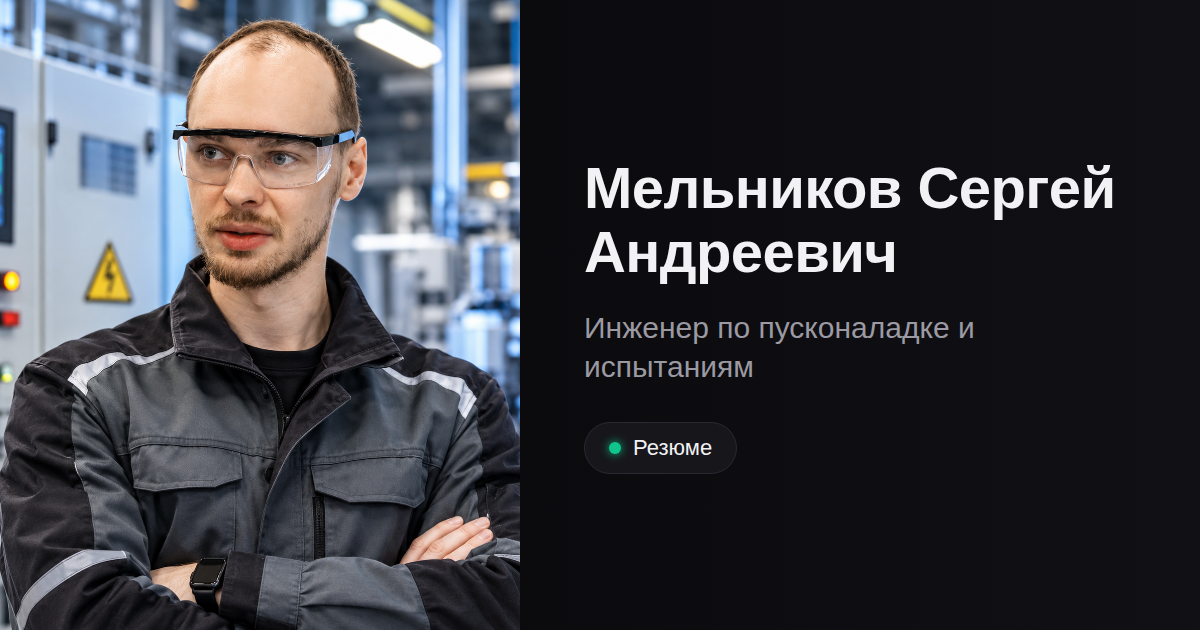
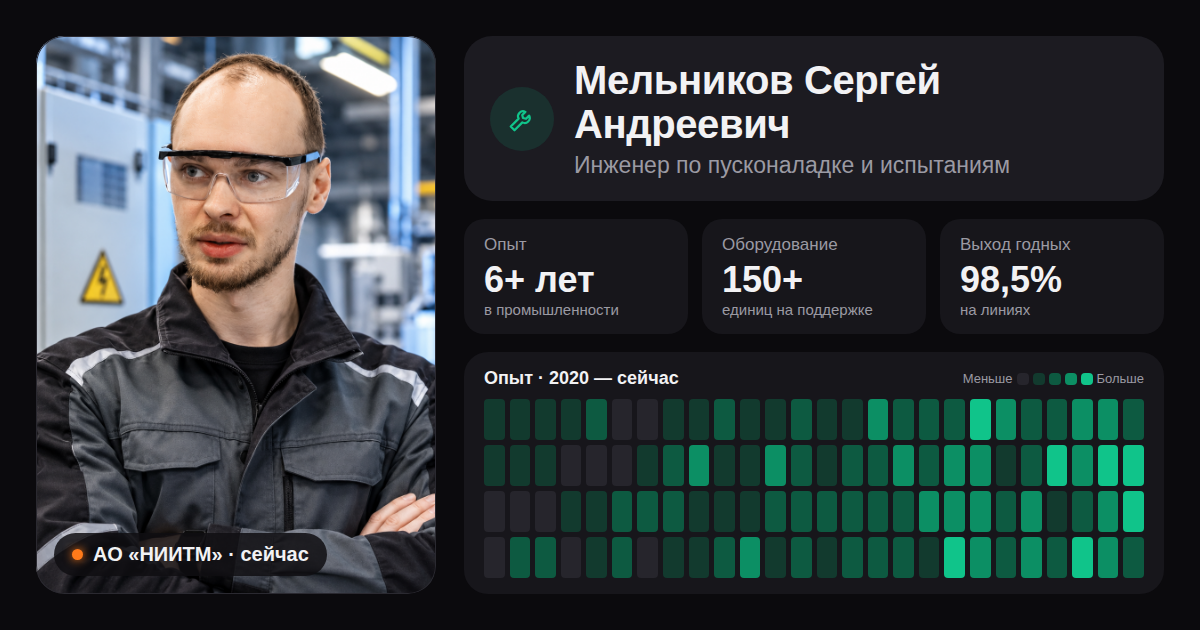
Превью для мессенджеров в стиле сайта

diff --git a/index.html b/index.html
@@ -11,14 +11,14 @@
 <meta property="og:url" content="https://sermel-llm.github.io/resume/">
 <meta property="og:title" content="Мельников Сергей Андреевич">
 <meta property="og:description" content="Инженер по пусконаладке и испытаниям">
-<meta property="og:image" content="https://sermel-llm.github.io/resume/og-image.png">
+<meta property="og:image" content="https://sermel-llm.github.io/resume/og-image.png?v=2">
 <meta property="og:image:width" content="1200">
 <meta property="og:image:height" content="630">
 <meta property="og:image:alt" content="Мельников Сергей Андреевич — инженер по пусконаладке и испытаниям">
 <meta name="twitter:card" content="summary_large_image">
 <meta name="twitter:title" content="Мельников Сергей Андреевич">
 <meta name="twitter:description" content="Инженер по пусконаладке и испытаниям">
-<meta name="twitter:image" content="https://sermel-llm.github.io/resume/og-image.png">
+<meta name="twitter:image" content="https://sermel-llm.github.io/resume/og-image.png?v=2">
 <link rel="preconnect" href="https://fonts.googleapis.com">
 <link href="https://fonts.googleapis.com/css2?family=Inter:wght@400;500;600;700&display=swap" rel="stylesheet">
 <style>
